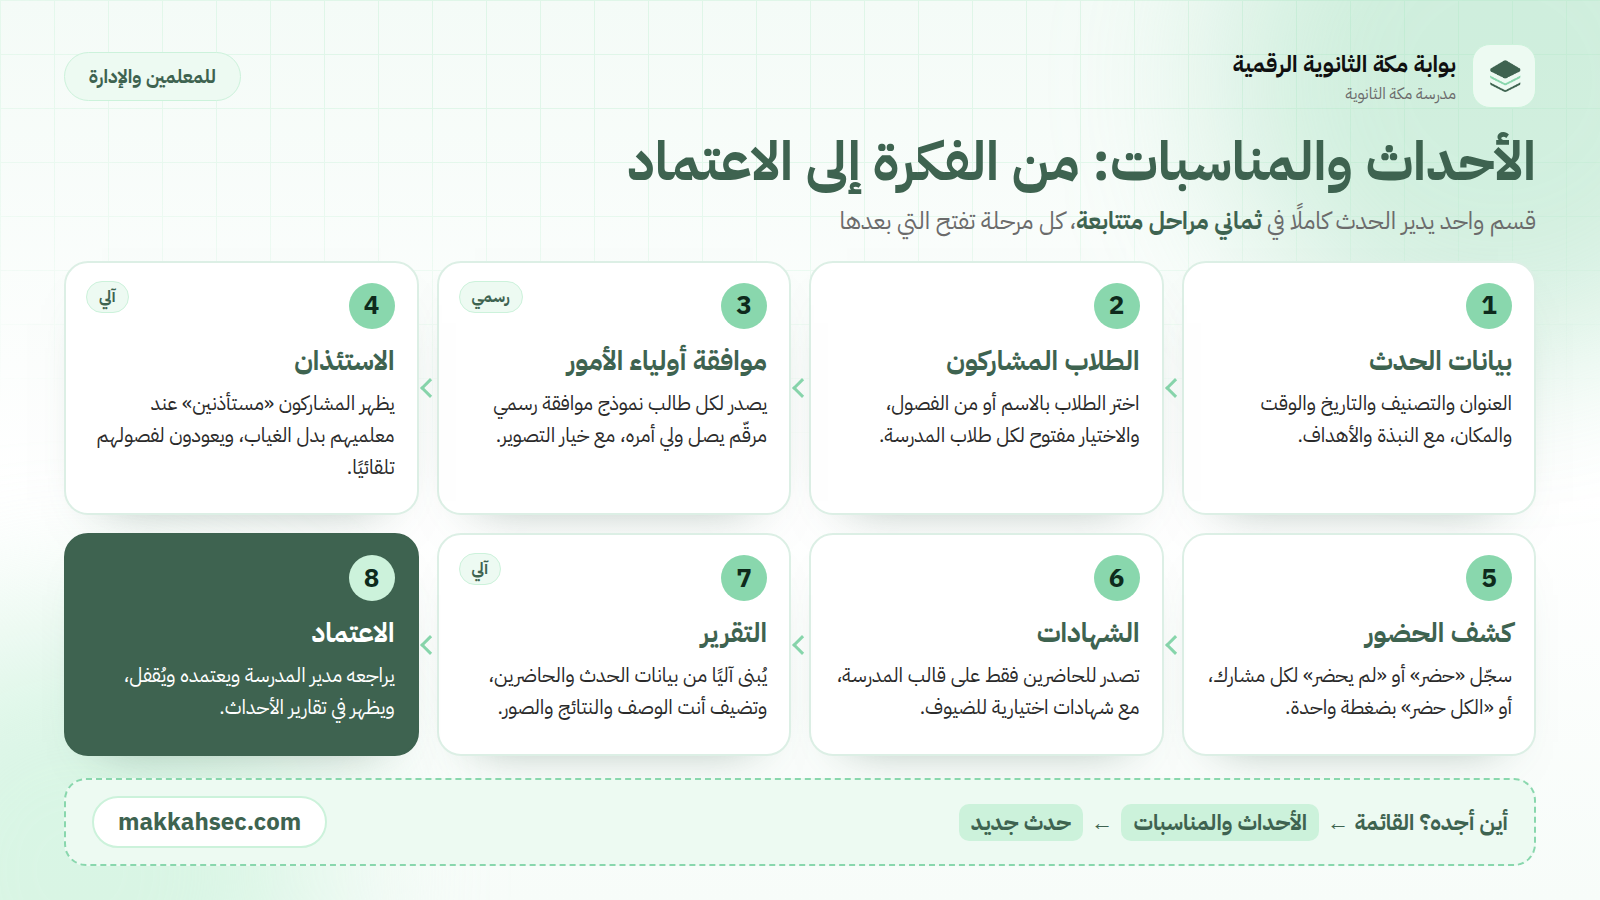
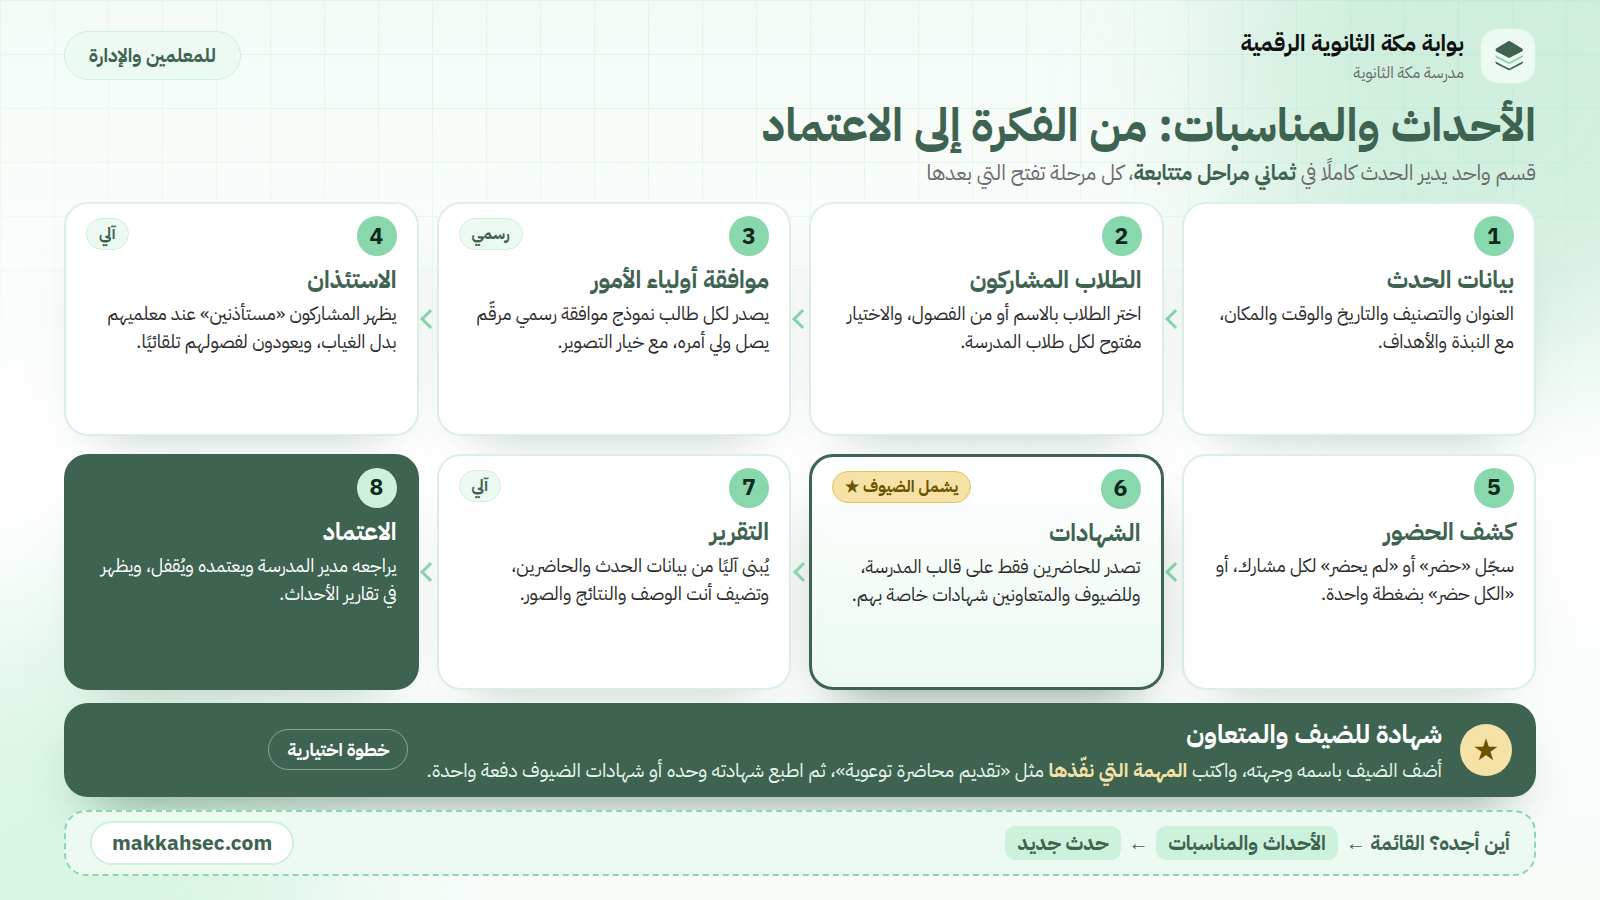
منشور الأحداث: إبراز شهادة الضيف والمتعاون بشريط مستقل وتمييز بطاقة الشهادات
Claude-Session: https://claude.ai/code/session_01Jf8MukPR2rWB2yHfyphbgT

diff --git a/docs/events-guide-post.md b/docs/events-guide-post.md
@@ -13,9 +13,11 @@
 ٣. موافقة أولياء الأمور: يصدر لكل طالب نموذج موافقة رسمي مرقّم يصل ولي أمره.
 ٤. الاستئذان: يظهر المشاركون «مستأذنين» عند معلميهم بدل الغياب.
 ٥. كشف الحضور: «حضر» أو «لم يحضر» لكل مشارك.
-٦. الشهادات: تصدر للحاضرين فقط على قالب المدرسة.
+٦. الشهادات: تصدر للحاضرين فقط على قالب المدرسة، وللضيوف والمتعاونين شهادات خاصة بهم.
 ٧. التقرير: يُبنى آليًا، وتضيف الوصف والنتائج والصور.
 ٨. الاعتماد: يعتمده مدير المدرسة ويُقفل.
+
+★ شهادة للضيف والمتعاون (خطوة اختيارية): أضف الضيف باسمه وجهته، واكتب المهمة التي نفّذها مثل «تقديم محاضرة توعوية»، ثم اطبع شهادته وحده أو شهادات الضيوف دفعة واحدة.
 
 أين أجده؟ القائمة ← الأحداث والمناسبات ← حدث جديد.
 
